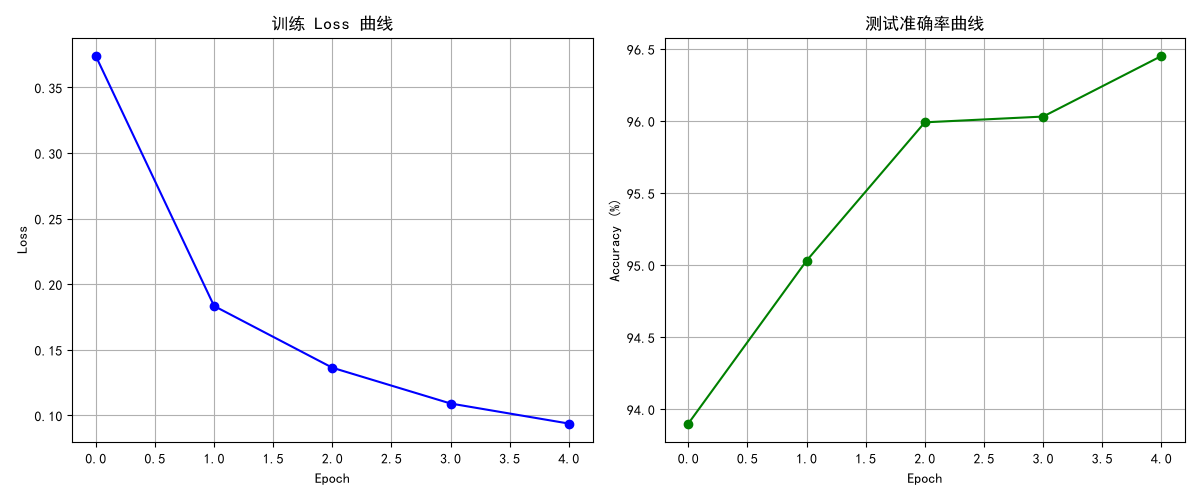
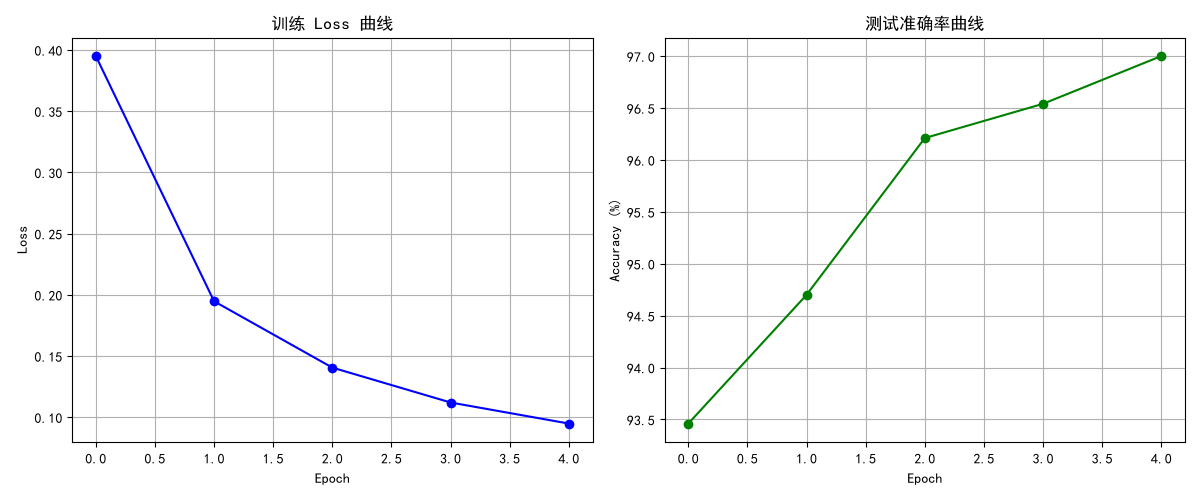
Day15: 用CNN做MNIST手写数字分类，准确率突破99%

diff --git a/day15_cnn.py b/day15_cnn.py
@@ -1,0 +1,95 @@
+import torch
+import torch.nn as nn
+import torch.optim as optim
+from torch.utils.data import DataLoader
+from torchvision import datasets, transforms
+import matplotlib.pyplot as plt
+
+plt.rcParams["font.sans-serif"] = ["SimHei"]
+plt.rcParams["axes.unicode_minus"] = False
+
+transform = transforms.Compose([
+    transforms.ToTensor(),
+    transforms.Normalize((0.5,), (0.5,))
+])
+
+train_dataset = datasets.MNIST(root = "./data",  train = True, download = True, transform = transform)
+test_dataset = datasets.MNIST(root = "./data",  train = False, download = True, transform = transform)
+
+train_loader = DataLoader(train_dataset, batch_size = 64, shuffle = True)
+test_loader = DataLoader(test_dataset, batch_size = 64, shuffle = False)
+print(f"训练集：{len(train_dataset)} 张 | 测试集：{len(test_dataset)} 张")
+
+class CNNModel(nn.Module):
+    def __init__(self, *args, **kwargs):
+        super().__init__(*args, **kwargs)
+        self.conv_layers = nn.Sequential(
+            nn.Conv2d(in_channels = 1, out_channels = 32, kernel_size = 3, padding = 1),
+            nn.ReLU(),
+            nn.MaxPool2d(kernel_size = 2), 
+            nn.Conv2d(in_channels = 32, out_channels = 64, kernel_size = 3, padding = 1),
+            nn.ReLU(),
+            nn.MaxPool2d(kernel_size = 2)
+        )
+        self.fc_layers = nn.Sequential(
+            nn.Flatten(),
+            nn.Linear(64 * 7 * 7, 128), nn.ReLU(),
+            nn.Linear(128, 10)
+        )
+    def forward(self, x):
+        x = self.conv_layers(x)
+        x = self.fc_layers(x)
+        return x
+model = CNNModel()
+loss_fn = nn.CrossEntropyLoss()
+optimizer = optim.Adam(model.parameters(), lr = 0.001)
+epochs = 5
+train_losses, test_accuracies = [], []
+
+for epoch in range(epochs):
+    model.train()
+    total_loss = 0
+    for images, labels in train_loader:
+        y_pred = model(images)
+        loss = loss_fn(y_pred, labels)
+        optimizer.zero_grad()
+        loss.backward()
+        optimizer.step()
+        total_loss += loss.item()
+    avg_loss = total_loss / len(train_loader)
+    train_losses.append(avg_loss)
+
+    model.eval()
+    correct = 0
+    total = 0
+    with torch.no_grad():
+        for images, labels in test_loader:
+            y_pred = model(images)
+            predicted = y_pred.argmax(dim = 1)
+            correct += (predicted == labels).sum().item()
+            total += labels.size(0)
+    accuracy = correct / total
+    test_accuracies.append(accuracy)
+    print(f"Epoch {epoch+1}/{epochs} | Train Loss: {avg_loss:.4f} | Test Acc: {accuracy*100:.2f}%")
+
+plt.figure(figsize=(12, 5))
+
+plt.subplot(1, 2, 1)
+plt.plot(train_losses, marker="o", color="blue")
+plt.title("训练 Loss 曲线")
+plt.xlabel("Epoch")
+plt.ylabel("Loss")
+plt.grid(True)
+
+plt.subplot(1, 2, 2)
+plt.plot([a * 100 for a in test_accuracies], marker="o", color="green")
+plt.title("测试准确率曲线")
+plt.xlabel("Epoch")
+plt.ylabel("Accuracy (%)")
+plt.grid(True)
+
+plt.tight_layout()
+plt.savefig("day15_cnn.png")
+plt.show()
+
+print("\n图片已保存：day15_cnn.png")

diff --git a/README.md b/README.md
@@ -80,3 +80,159 @@ ai_learning/
 - 数学基础：微积分、概率统计、线性代数
 - 深度学习核心：CNN、RNN、Transformer
 - 大模型微调：SFT、LoRA、DPO
+
+## 总计划：
+# 大模型算法工程师 · 学习计划与进度文档
+
+> 适合保存到本地，或贴到 GitHub。以后对话太长时，把这份文档贴回来，就能快速恢复上下文。
+
+---
+
+## 一、 我的背景与目标
+
+- **身份**：大一学生，会写 Python。
+- **目标**：大模型算法工程师方向。
+- **路线**：先打基础 → 做小项目 → 学 Transformer → 大模型微调 → 完整算法项目。
+- **原则**：不抄代码，不收藏课程，每学一个概念必须动手跑实验。
+
+---
+
+## 二、 当前进度（已完成 Day 1 – Day 15）
+
+### 第一周：Python 与数据处理
+| 天数 | 内容 | 产出 |
+|---|---|---|
+| Day 1 | 环境搭建、Git、第一个 Python 文件 | `day1_hello.py` |
+| Day 2 | 函数、类、文件读写 | `day2_python_review.py` |
+| Day 3 | NumPy 矩阵运算、softmax、Attention 原理 | `day3_numpy.py` |
+| Day 4 | Pandas 读写 CSV、筛选、统计 | `day4_pandas.py` |
+| Day 5 | Matplotlib 画图、模拟 loss 曲线 | `day5_plot.py` |
+| Day 6 | 学生成绩分析小项目（类 + 文件 + 报告） | `day6_project/` |
+| Day 7 | 第一周复盘、写 README、推 GitHub | `README.md` |
+
+### 第二周：机器学习与神经网络
+| 天数 | 内容 | 产出 |
+|---|---|---|
+| Day 8 | NumPy 手写线性回归、偏导数、梯度下降 | `day8_linear_regression.py` |
+| Day 9 | Mini-batch 梯度下降 | `day9_mini_batch_gd.py` |
+| Day 10 | 过拟合、交叉熵、L2 正则化、Dropout | `day10_overfitting.py` |
+| Day 11 | PyTorch 重写线性回归、nn.Linear、自动求导 | `day11_linear_regression_torch.py` |
+| Day 12 | 房价预测完整项目（归一化、训练/测试划分、模型保存） | `day12_house_price.py` |
+| Day 12.5 | 股票预测玩具项目（时间切分、IC、回测、手续费） | `day12_5_stock.py` |
+| Day 13 | 第二周复盘、更新 README | `README.md` |
+
+### 第三周（进行中）
+| 天数 | 内容 | 状态 |
+|---|---|---|
+| Day 14 | MNIST 手写数字分类（全连接网络） | ✅ 完成 |
+| Day 15 | CNN 卷积神经网络（准确率 99%+） | ✅ 完成 |
+| Day 16 | RNN 与序列建模 | ⬜ 待做 |
+| Day 17 | Transformer 逐层拆解（上） | ⬜ 待做 |
+| Day 18 | Transformer 逐层拆解（中） | ⬜ 待做 |
+| Day 19 | 手写 Multi-Head Attention | ⬜ 待做 |
+| Day 20 | Mini GPT 复现 | ⬜ 待做 |
+
+---
+
+## 三、 后续计划（Day 16 之后）
+
+### 阶段 A：第三周剩余（Day 16 – Day 20）
+- **Day 16**：RNN、LSTM 直觉，用 PyTorch 做序列预测。
+- **Day 17–18**：Transformer 结构拆解（Self-Attention、Multi-Head、位置编码、残差、LayerNorm、FFN）。
+- **Day 19**：手写 Multi-Head Attention，不调库。
+- **Day 20**：复现 nanoGPT，训练字符级小 GPT。
+
+### 阶段 B：集中补数学（5 天）
+- 线性代数：向量、矩阵、矩阵乘法、转置、范数、特征值。
+- 微积分：导数、偏导数、链式法则、梯度。
+- 概率统计：期望、方差、条件概率、贝叶斯、最大似然。
+- 信息论：熵、交叉熵、KL 散度。
+- 把数学和代码对应起来（softmax、交叉熵、梯度下降）。
+
+### 阶段 C：大模型核心算法（预计 4–6 周）
+- 预训练与数据 pipeline。
+- SFT、LoRA、QLoRA、PEFT。
+- 对齐：Reward Model、RLHF、DPO。
+- 推理优化：KV Cache、量化、蒸馏、vLLM。
+- 完整项目：选开源小模型（Qwen2.5-0.5B），做数据清洗、SFT、LoRA、评测、部署、对比实验。
+
+### 阶段 D：求职准备
+- 整理 GitHub 项目，写技术报告。
+- 刷面试题：Attention、LoRA、SFT、DPO、量化、KV Cache。
+- 参加竞赛或实验室项目。
+
+---
+
+## 四、 已掌握的核心概念清单
+
+### Python 与工具
+- 虚拟环境、Git、GitHub、README、requirements.txt
+- 函数、类、`self`、`__init__`、文件读写（`with open`）
+- JSON / JSONL / CSV 格式
+
+### 数学与深度学习基础
+- 矩阵乘法、转置、softmax、广播、keepdims
+- 前向传播、反向传播、链式法则、偏导数
+- 梯度下降、学习率、Mini-batch、batch_size
+- 损失函数：MSE、交叉熵
+- 过拟合、欠拟合、L2 正则化、Dropout、早停
+- 归一化（Z-score）、训练集/测试集划分
+
+### PyTorch
+- `nn.Linear`、`nn.Sequential`、`nn.ReLU`、`nn.Flatten`
+- `nn.Conv2d`、`nn.MaxPool2d`
+- `nn.MSELoss`、`nn.CrossEntropyLoss`
+- `optim.SGD`、`optim.Adam`、`weight_decay`
+- `loss.backward()`、`optimizer.step()`、`zero_grad()`
+- `model.train()` / `model.eval()`
+- `DataLoader`、`batch_size`、`shuffle`
+- `torch.save` / `load_state_dict`
+- `argmax(dim=1)`、准确率计算
+
+### 大模型核心（已接触）
+- Attention 的 Q、K、V、Mask、缩放点积
+- 生成文本时的自回归、KV Cache（直觉）
+- 量化、蒸馏、推理加速（概念）
+- SFT、LoRA、DPO（概念）
+
+### 量化投资（玩具级）
+- 时间切分、前视偏差、IC、回测、交易成本
+- 买入持有基准
+
+---
+
+## 五、 踩过的坑与经验
+
+| 坑 | 教训 |
+|---|---|
+| 学习率太大 → loss 变成 nan | 数据要归一化，学习率要调小 |
+| 随机切分股票数据 → 回测虚假地好 | 时间序列必须按时间切分 |
+| 忘记 `optimizer.zero_grad()` | 梯度会累加，必须清零 |
+| `nn.MSELoss` 漏写括号 | 类和实例的区别 |
+| `numpy()` 漏写括号 | 方法本身和方法调用的区别 |
+| 特征尺度差异大 | 归一化，否则大特征主导 |
+| 虚拟环境没激活 | 终端前面要有 `(.venv)` |
+| Git 推送冲突 | 先 `git pull --rebase`，再 `push` |
+
+---
+
+## 六、 学习习惯
+
+- 每天至少 1 小时看概念 + 1 小时写代码。
+- 每周末复盘，更新 README，提交 GitHub。
+- 每学一个概念，用自己的话写笔记。
+- 不复制粘贴，手动敲代码。
+- 遇到报错先读错误信息，再搜索，最后问人。
+
+---
+
+## 七、 下一步行动
+
+- [ ] 继续 Day 16：RNN 与序列建模。
+- [ ] 完成 Day 17–20：Transformer 与 Mini GPT。
+- [ ] 集中 5 天补数学。
+- [ ] 进入大模型微调阶段。
+
+---
+
+**保存这份文档。以后如果对话太长，把这份文档贴回来，我就能立刻恢复上下文。**
